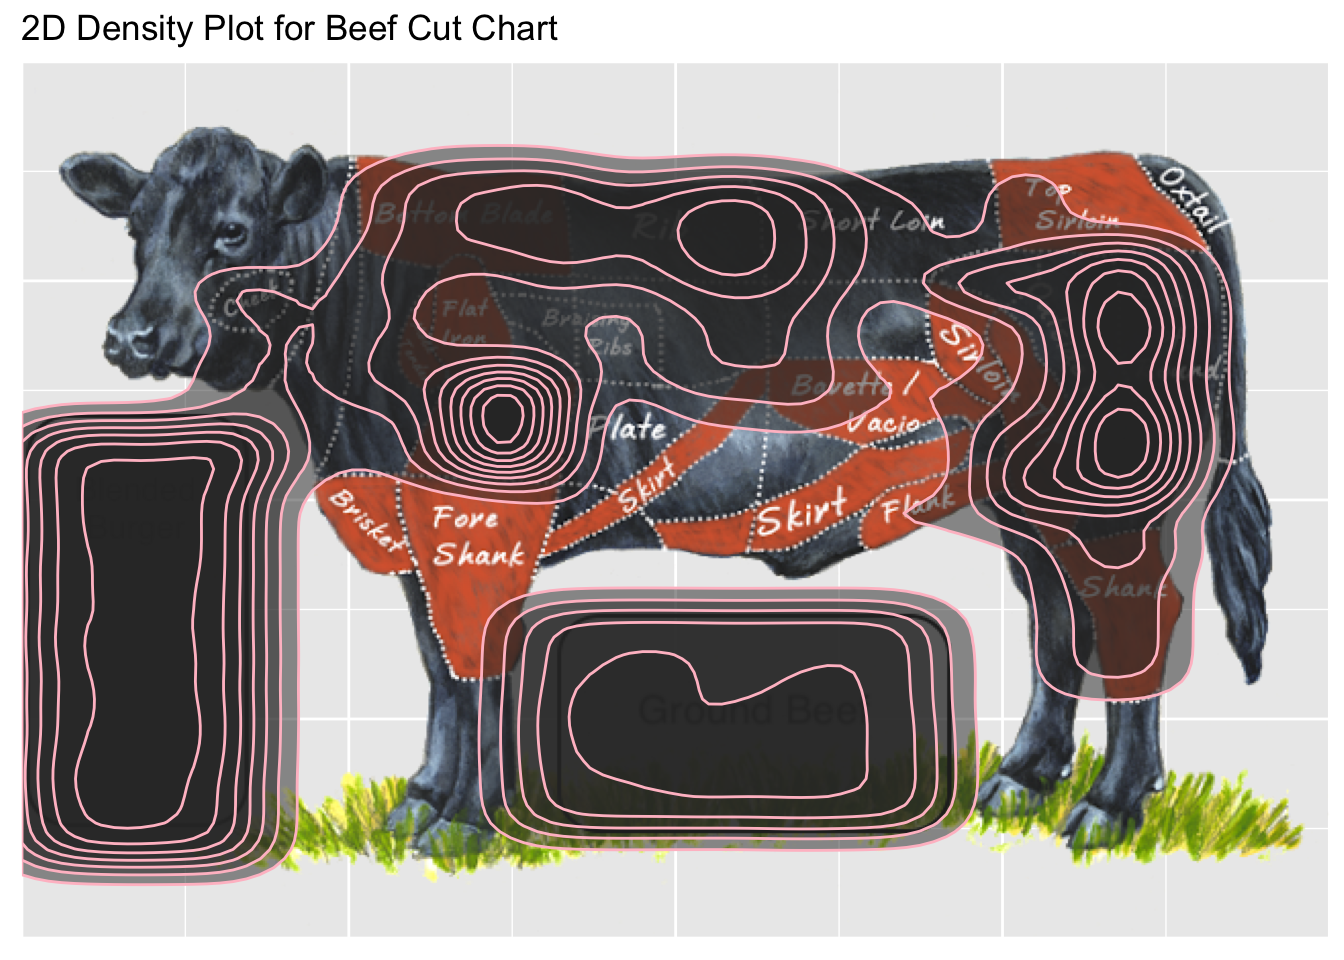
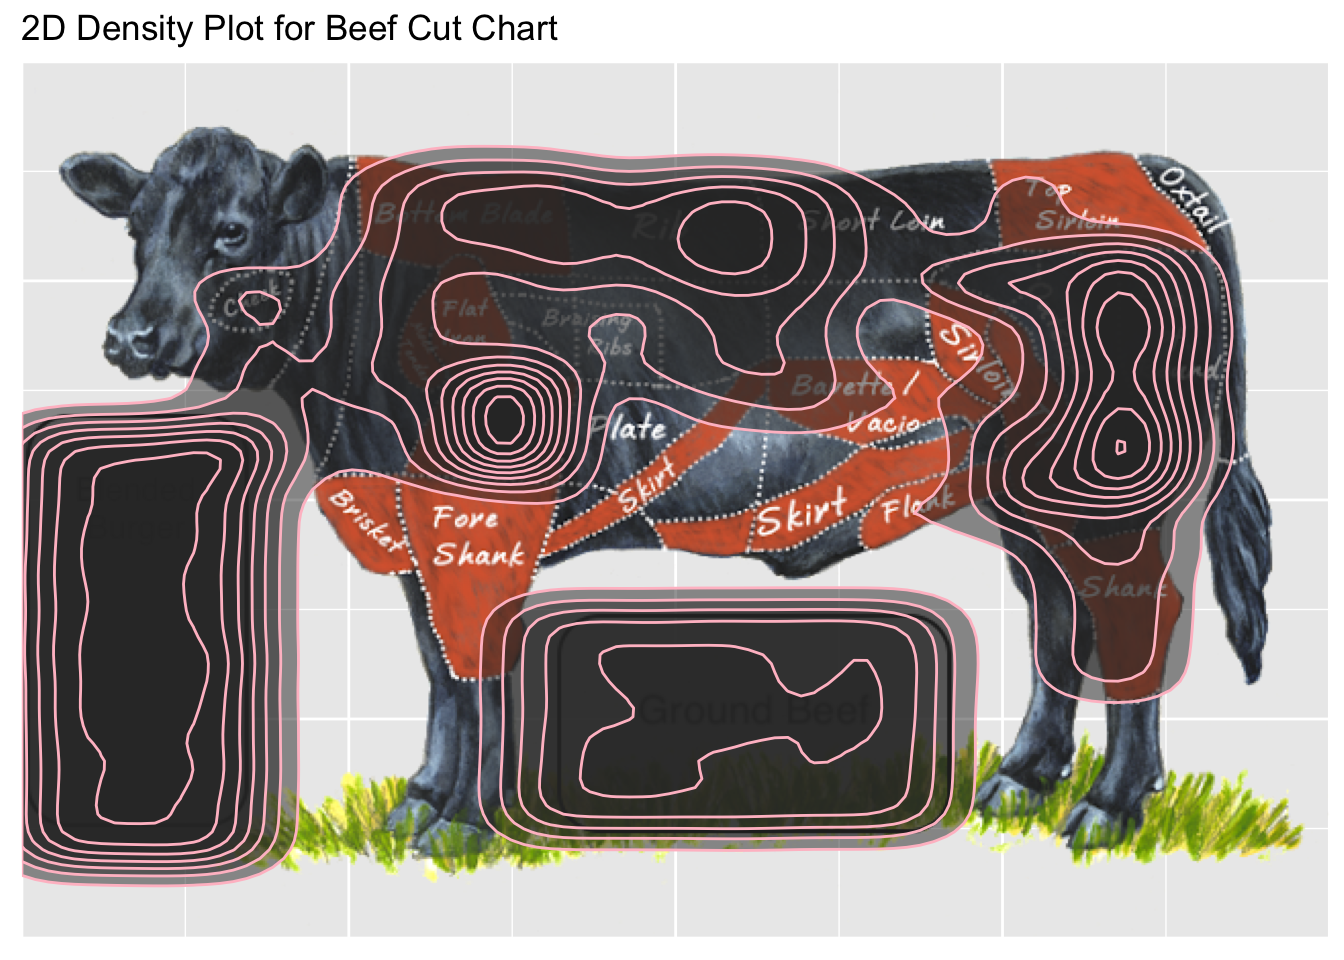
updates

diff --git a/Blog.html b/Blog.html
@@ -329,10 +329,10 @@ $(document).ready(function () {
 </div>
 
 
-<p>In Data Science I, we’ve learned mutiple techniques dealing with data. For instance, ggplot2 and tidyverse are very commonly used packages for data visualization. In the midterm project, we were requested to finish a data visualization job with shinny app. The datasets are about the environment impacts of different cuts of beef. It takes me a very long time to figureout a better way other than bar plot: 2D density plot.</p>
-<p>In this midterm project, I used learned techiniques and knowlege, but also new stuff from self-study. Now let’s talk about my masterpiece!</p>
-<p>It might first come in mind that how could 2D density plot show the environment impact? It actually does and from my perspective, pretty nicely done!</p>
-<p>First of all, is to deal with the data. The dataset is called carcass, and I cleaned the data a bit for easier usage later.</p>
+<p>In Data Science I, we’ve learned multiple techniques dealing with data. For instance, ggplot2 and tidyverse are very commonly used packages for data visualization. In the midterm project, we were requested to finish a data visualization job with the shiny app. The datasets are about the environmental impacts of different cuts of beef. It takes me a very long time to figure out a better way other than bar plot: 2D density plot.</p>
+<p>In this midterm project, I used learned techniques and knowledge, but also new stuff from self-study. Now let’s talk about my masterpiece!</p>
+<p>It might first come in mind that how could 2D density plot show the environmental impact? It actually does and from my perspective, pretty nicely done!</p>
+<p>First of all, it is to deal with the data. The dataset is called carcass, and I cleaned the data a bit for easier usage later.</p>
 <pre class="r"><code>carcass&lt;- read.csv(&#39;file/carcass_clean.csv&#39;)
 head(carcass,10)</code></pre>
 <pre><code>##               cut total_weight protein.lb Kcal.lb water.rate co2.emision
@@ -357,7 +357,7 @@ head(carcass,10)</code></pre>
 ## 8        77
 ## 9        77
 ## 10       77</code></pre>
-<p>Because I never find a package that has already implemented with an interactive cow map, so some of the steps are done manually. In order to get a cow map, I have to first put the cow map in the plot. I checked online a lot and found that 2D density plot can be easily applied on geographic maps with build-in longitude and latitude values.</p>
+<p>Because I never find a package that has already implemented with an interactive cow map, so some of the steps are done manually. To get a cow map, I have to first put the cow map in the plot. I checked online a lot and found that the 2D density plot can be easily applied on geographic maps with build-in longitude and latitude values.</p>
 <p>All you have to do is find the location, give it a value, Woa! you have a nice density plot. However, there’s no pre-existed cow map package.</p>
 <p>So to plot a 2D density plot on a cow, I have to find another way round. First, is to have the cow map appear in R. I did not find a way to “plot” the cow, but to either draw the cow or put the cow into the plot as background.</p>
 <p>I read in the picture use the png package, and plot with cowplot package. Unfortunately, it is just a picture and I could do nothing with it. As you can see, the background is white just, if you are familiar with ggplot2, the default plot background is always grey.</p>
@@ -368,13 +368,13 @@ beefcut &lt;- ggdraw()+
   draw_image(im)
 beefcut</code></pre>
 <p><img src="Blog_files/figure-html/unnamed-chunk-2-1.png" width="672" /></p>
-<p>I used the other option. I made the cow map a background of my ggplot, using grid package. And it worked! The background is grey!</p>
+<p>I used the other option: I made the cow map a background of my ggplot, using grid package. And it worked! The background is grey and it’s in a plot!</p>
 <pre class="r"><code>library(grid)
 library(ggplot2)
 ggplot()+
   annotation_custom(rasterGrob(im,width = unit(1,&quot;npc&quot;), height = unit(1,&quot;npc&quot;)), -Inf, Inf, -Inf, Inf)</code></pre>
 <p><img src="Blog_files/figure-html/unnamed-chunk-3-1.png" width="672" /></p>
-<p>So I solved the picture issue, how to plot on it? Here comes the manmual part. I set the x and y scale from 0 to 100 for this background, and worked with my teammates with locating all the cuts into file vec.csv.</p>
+<p>So I solved the picture issue, what’s next? Here comes the manmual part. I set the x and y scale from 0 to 100 for this background, and worked with my teammates with locating all the cuts into file vec.csv.</p>
 <pre class="r"><code>ggplot()+
   annotation_custom(rasterGrob(im,width = unit(1,&quot;npc&quot;), height = unit(1,&quot;npc&quot;)), -Inf, Inf, -Inf, Inf)+
   scale_x_continuous(expand=c(0,0), lim=c(0,100)) +
@@ -393,7 +393,7 @@ head(vec,10)</code></pre>
 ## 8         Sirloin 74.50 79.5 46.0 88.0
 ## 9         Brisket 32.00 41.0 53.0 63.0
 ## 10    Should Clod 35.00 39.0 54.0 64.0</code></pre>
-<p>As I mentioned, the cow map is not geographic map, and there’s no cow-related package for me to use. To plot 2D density plot on this blank plot (the cow map is just a background), I need to create points on the districts that we manually measured. To begin with, the carcass_clean.csv dataset needs a further change. The package we learned such as tidyverse are really useful here. Tidyr and pipe within tidyverse are used below.</p>
+<p>As I mentioned, the cow map is not a geographic map, and there’s no cow-related package for me to use. To plot the 2D density plot on this blank plot (the cow map is just a background), I need to create points on the districts that we manually measured. To begin with, the carcass_clean.csv dataset needs further change. The packages we learned such as tidyverse are really useful here. Tidyr and pipe within tidyverse are used below.</p>
 <pre class="r"><code>library(tidyverse)
 carcass2&lt;- 
   # alter the original environment impacts to per pound of beef cut and chage units.
@@ -429,7 +429,7 @@ head(carcass4,10)</code></pre>
 ## 8   1298.4274     20.609722           360           3600
 ## 9   1460.7308     23.185938           320           3200
 ## 10  1669.4066     26.498214           280           2800</code></pre>
-<p>As shown above, water.1000gal.lb means 1000gallons of water usage per pound of the cut of beef, so does the co2 emmision, land usage columns etc. These values will then become the number of points randomly generated on the blank plot. Geom_density2d can accept these generated points. For example, Round cut uses 99.29 kgallons of water per pound, recall the location values of round cut, 41.60 62.5 63.0 87.0 will give us a square on the cow map, 99 points will be randomly generated in this square. In order to generate all these points I have to write a function within the function. How to write a function and using for loop are important topics we covered in classes.</p>
+<p>As shown above, water.1000gal.lb means 1000gallons of water usage per pound of the cut of beef, so does the co2 emissions, land usage columns, etc. These values will then become the number of points randomly generated on the blank plot. Geom_density2d can accept these generated points. For example, Round-cut uses 99.29 thousand gallons of water per pound, recall the location values of round-cut, 41.60 62.5 63.0 87.0 will give us a square on the cow map, 99 points will be randomly generated in this square. To generate all these points, I have to write a function within the function. How to write a function and using for loop are important topics we covered in classes.</p>
 <pre class="r"><code># The first function rwloc is used to calculate weight, it generate random location values(newx,newy) within the square I restricted (x1,x2,y1,y2)
 rwloc &lt;- function(cutname,x1,x2,y1,y2){
   # cutname is going to be the cutnames from vec.csv, x1 x2 y1 y2 are the corners of the square we manually measured.
@@ -455,20 +455,20 @@ manual &lt;- function(vec){
 weight &lt;- manual(vec)
 weight[1:10,6:11]</code></pre>
 <pre><code>##    co2e.kg.lb landuse.bs.lb tot_weight_10 tot_weight_100 newx newy
-## 1    123.3335      1.957652          3790          37900  7.5   13
-## 2    123.3335      1.957652          3790          37900 10.5   47
-## 3    123.3335      1.957652          3790          37900  5.5   53
-## 4    123.3335      1.957652          3790          37900 12.5   40
-## 5    123.3335      1.957652          3790          37900  9.5   32
-## 6    123.3335      1.957652          3790          37900  5.5   29
-## 7    123.3335      1.957652          3790          37900  9.5   14
-## 8    123.3335      1.957652          3790          37900 17.5   14
-## 9    123.3335      1.957652          3790          37900 14.5   36
-## 10   123.3335      1.957652          3790          37900 13.5   14</code></pre>
+## 1    123.3335      1.957652          3790          37900 12.5   16
+## 2    123.3335      1.957652          3790          37900 17.5   22
+## 3    123.3335      1.957652          3790          37900 14.5   11
+## 4    123.3335      1.957652          3790          37900  4.5   56
+## 5    123.3335      1.957652          3790          37900 15.5   41
+## 6    123.3335      1.957652          3790          37900  0.5   21
+## 7    123.3335      1.957652          3790          37900  7.5   18
+## 8    123.3335      1.957652          3790          37900  3.5   24
+## 9    123.3335      1.957652          3790          37900  0.5   38
+## 10   123.3335      1.957652          3790          37900  7.5   41</code></pre>
 <pre class="r"><code>nrow(weight)</code></pre>
 <pre><code>## [1] 114975</code></pre>
-<p>As shown, we generated repeated rows of values but the location value newx and newy are different. The newx and newy will give us randomly located points.</p>
-<p>With the dataset weight of 114975 rows, it’s all repeated points with differnt location value. So I can plot it using ggplot on the cow map.</p>
+<p>As shown, I generated repeated rows of values but the location value newx and newy are different. The newx and newy will give us randomly located points.</p>
+<p>Dataset Weight has 114975 rows, it’s all repeated points with differnt location value. So I can plot them using ggplot2 stat_density2d on the cow map.</p>
 <pre class="r"><code>ggplot(data=weight,aes(x = newx, y = newy))+
   annotation_custom(rasterGrob(im,width = unit(1,&quot;npc&quot;), height = unit(1,&quot;npc&quot;)), -Inf, Inf, -Inf, Inf)+
   scale_x_continuous(expand=c(0,0), lim=c(0,100)) +
@@ -484,8 +484,8 @@ weight[1:10,6:11]</code></pre>
   # give my plot a label
   labs(title = &quot;2D Density Plot for Beef Cut Chart&quot;)</code></pre>
 <p><img src="Blog_files/figure-html/unnamed-chunk-7-1.png" width="672" /></p>
-<p>As the result, we could observe that, ground beef, blended burger, round part, chuck part and rib part has the highest beef yield. The plot shown contains every cut.</p>
-<p>I personally think this project is very meaningful, it drives me to be creative, and this 2d density plot was the only cow plot among all the midterm products. I think it’s very unique. It’s a little bit sketchy and not good-looking enough, but I utilize the package like tidyr, pipe, ggplot2 and plotly (not included here) learned in class, and techniques such as function, for loop are vital in my project. Apart from these learned knowledge, the project made me learned new pakcages such as grid, cowplot (actually there are tens more but sadly not useful to be applied in my project). For this project, I am learning and reviewing at the same time, it’s fun and challenging but with the product we had, I am more than pround of myself and my teammates Danni and Eddie. The final product can be find <a href="https://jialehe3.shinyapps.io/midtermbeef_3/">here</a>. You can play around with it!</p>
+<p>As a result, we could observe that ground beef, blended burger, round part, chuck part and rib part has the highest beef yield. The plot shown contains every cut.</p>
+<p>I personally think this project is very meaningful, it drives me to be creative, and this 2d density plot was the only cow plot among all the midterm products. I think it’s very unique. It’s a little bit sketchy and not good-looking enough, but I utilize the package like tidyr, pipe, ggplot2 and plotly (not included here) learned in class, and techniques such as function, for loops are vital in my project. Apart from the learned knowledge, the project made me learned new packages such as grid, cowplot (actually there are tens more but sadly not useful to be applied in my project). For this project, I am learning and reviewing at the same time, it’s fun and challenging but with the product we had, I am more than proud of myself and my teammates Danni and Eddie. The final product can be found <a href="https://jialehe3.shinyapps.io/midtermbeef_3/">here</a>. You can play around with it!</p>
 
 
 
